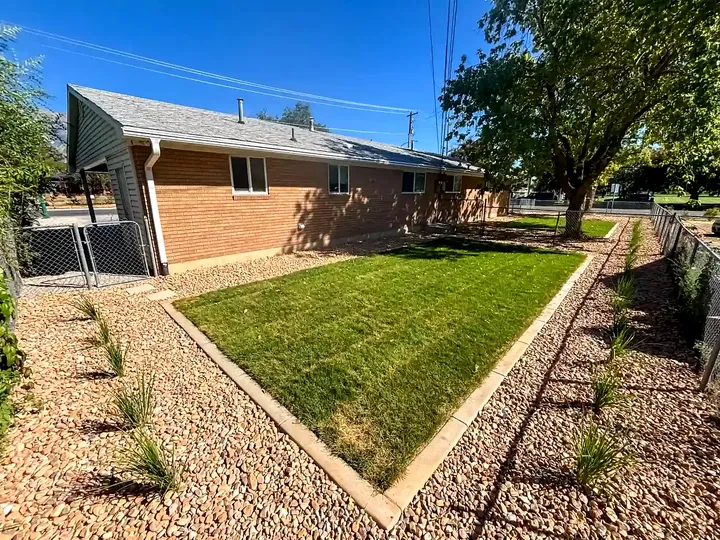
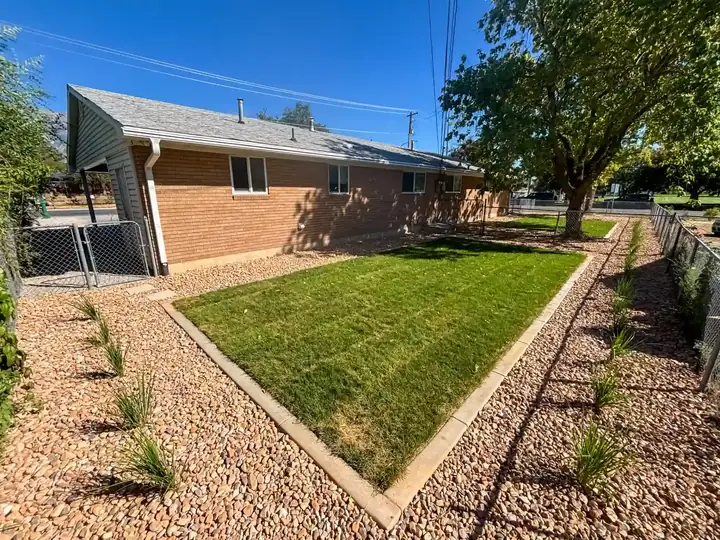
Put back Sergio's own edit of the side-yard photo (the extra color pass over-boosted it)
Claude-Session: https://claude.ai/code/session_019hNaBELyGCUL3LP5oFEaDB

diff --git a/CLAUDE.md b/CLAUDE.md
@@ -15,7 +15,7 @@ Sergio sends phone videos (.MOV) and photos (.HEIC). Tools are in `_src/photos.p
 3. **Pull stills** with `photos.py still VIDEO START END OUT.png` (picks the sharpest frame in the window).
 4. **Crop on purpose.** Layouts crop with object-fit to 1:1 (gallery, desktop hero), 4:3, 3:4 (before/after, steps) and 4:5 (split sections), so frame portrait shots about 4:5 and landscape shots about 4:3 with the subject centered.
 5. **Privacy.** Crop people out where possible, especially faces. Blur house numbers, street signs, mailboxes with numbers and license plates (`--blur x0,y0,x1,y1` in source pixels; check at 3–4x zoom). Exported WebP files carry no GPS or EXIF.
-6. **Light grade only** (`photos.py export`): levels, gentle lift for dark shots, slight warmth on cold ones, a touch of contrast and color. It must still look real; drop `--color` (e.g. 0.9) for photos that are already very saturated. `photos.py regrade NAME` applies the same pass to a photo already on the site.
+6. **Light grade only** (`photos.py export`): levels, gentle lift for dark shots, slight warmth on cold ones, a touch of contrast and color. It must still look real; drop `--color` (e.g. 0.9) for photos that are already very saturated. `photos.py regrade NAME` applies the same pass to a photo already on the site. Never grade on top of a photo Sergio already edited (he sometimes boosts in Lightroom); grade his unedited original instead, or leave his edit as is (`xeriscape-side-yard-sod-rock-border` is his edit).
 7. **Look at every final image** before it goes on a page, then screenshot the page (desktop and phone) after building.
 8. **Publish and verify**: commit, push, wait for the Pages deploy, then load the live page.
 
